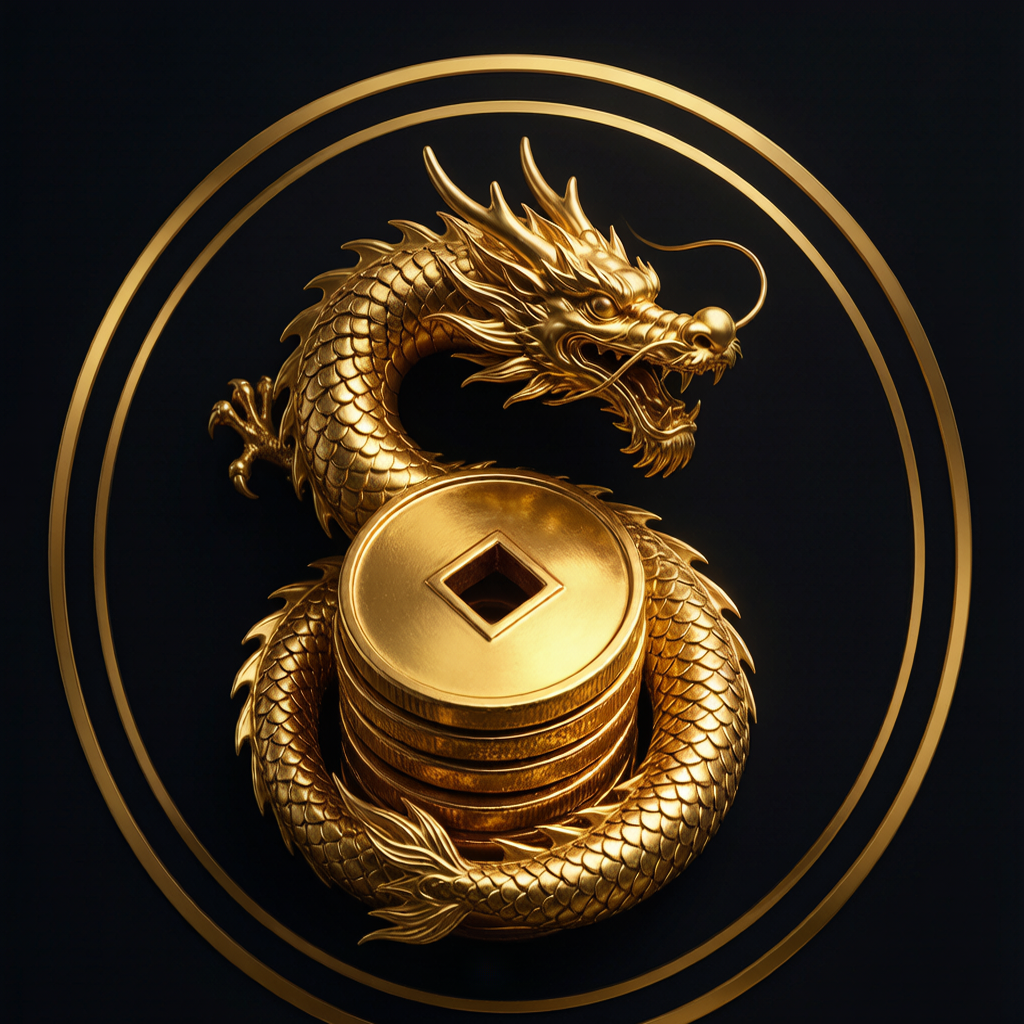
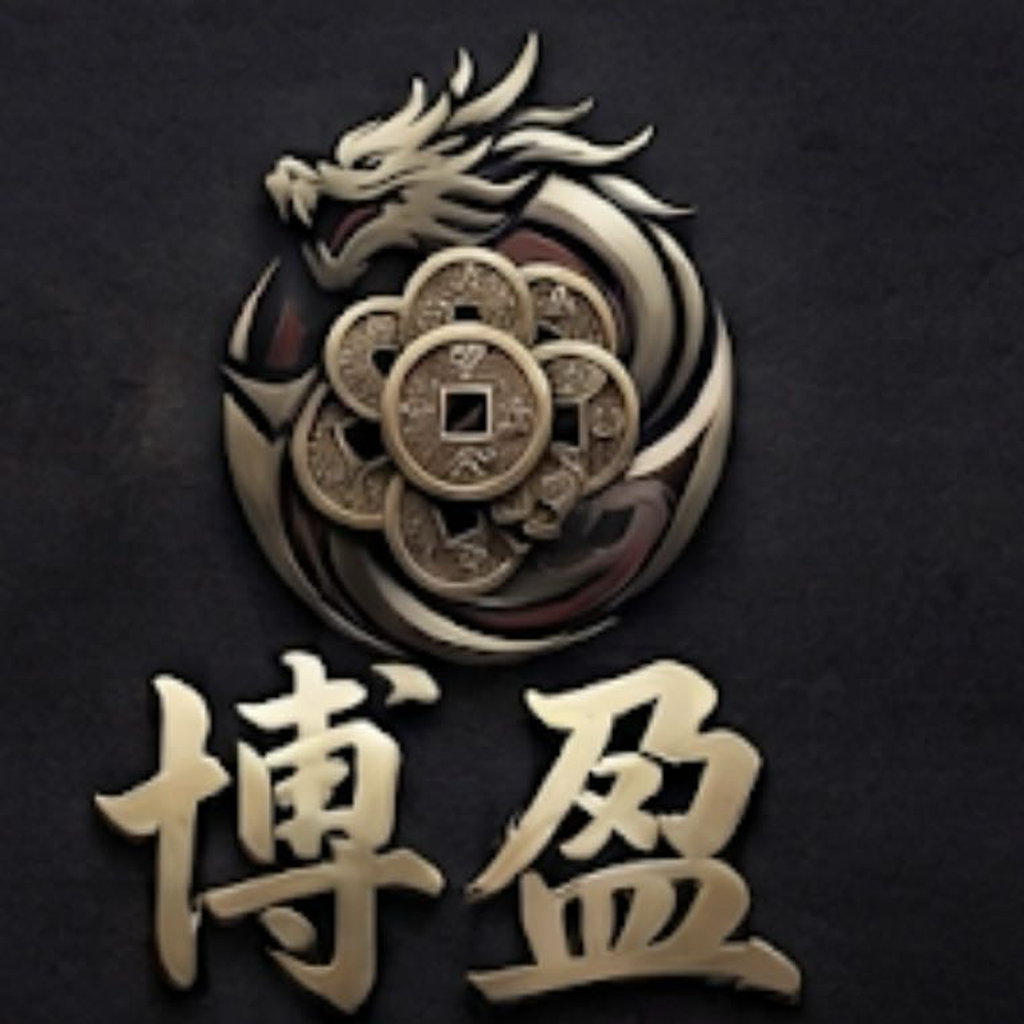
v1.3.0: 改用使用者提供的完整構圖（龍+金幣+紅綢帶+博盈金字）

diff --git a/index.html b/index.html
@@ -18,16 +18,15 @@
 <link rel="apple-touch-startup-image" href="icons/splash-828x1792.png" media="(device-width: 414px) and (device-height: 896px) and (-webkit-device-pixel-ratio: 2)">
 <link rel="apple-touch-startup-image" href="icons/splash-750x1334.png" media="(device-width: 375px) and (device-height: 667px) and (-webkit-device-pixel-ratio: 2)">
 <title>台灣版整合系統</title>
-<link rel="stylesheet" href="app.css?v=1787287830822">
+<link rel="stylesheet" href="app.css?v=1787288276488">
 </head>
 <body>
 
 <!-- 登入畫面（Phase 1A 個別帳號） -->
 <div id="login-overlay">
   <div class="login-box">
-    <div class="login-icon"><img class="brand-mark" src="icons/icon-192.png" width="96" height="96" alt="博盈APP" draggable="false" /></div>
-    <h1>授 權 驗 證</h1>
-    <div class="login-sub">博盈國際會 · 台灣版整合管理</div>
+    <img class="brand-full" src="icons/brand-360.png" alt="博盈" draggable="false" />
+    <div class="login-sub">台灣版整合管理 · 授權登入</div>
     <input type="email" id="login-email" placeholder="帳號（Email）" autocomplete="username">
     <input type="password" id="login-pwd" placeholder="密碼" autocomplete="current-password" onkeydown="if(event.key==='Enter')handleLogin()">
     <button id="login-btn" onclick="handleLogin()">進 入 系 統</button>
@@ -37,9 +36,8 @@
 <!-- 首次設定精靈（偵測 users 為空時顯示） -->
 <div id="setup-overlay" style="display:none;">
   <div class="login-box">
-    <div class="login-icon"><img class="brand-mark" src="icons/icon-192.png" width="96" height="96" alt="博盈APP" draggable="false" /></div>
-    <h1>首 次 設 定</h1>
-    <div class="login-sub">建立首位管理員帳號（需網路連線）</div>
+    <img class="brand-full" src="icons/brand-360.png" alt="博盈" draggable="false" />
+    <div class="login-sub">台灣版整合管理 · 首次建立管理員帳號</div>
     <input type="text" id="setup-name" placeholder="姓名（顯示名稱）">
     <input type="email" id="setup-email" placeholder="帳號（Email）" autocomplete="username">
     <input type="password" id="setup-pwd" placeholder="密碼（至少 6 位）" autocomplete="new-password">
@@ -52,9 +50,8 @@
 <div id="app" style="display:none;">
   <div class="sidebar">
     <div class="sidebar-brand">
-      <div class="brand-icon"><img class="brand-mark" src="icons/icon-192.png" width="96" height="96" alt="博盈APP" draggable="false" /></div>
-      <div class="brand-title">博盈國際會</div>
-      <div class="brand-sub">台灣版 v1.0</div>
+      <img class="brand-full" src="icons/brand-240.png" alt="博盈" draggable="false" />
+    </div>
     </div>
     <ul class="nav-list" id="nav-list"></ul>
   </div>
@@ -93,6 +90,6 @@
 <!-- Toast -->
 <div id="toast-container" class="toast-container"></div>
 
-<script src="app.js?v=1787287830822"></script>
+<script src="app.js?v=1787288276488"></script>
 </body>
 </html>

diff --git a/app.css b/app.css
@@ -183,9 +183,7 @@ a { color: var(--accent); text-decoration: none; }
   padding: var(--spacing-md); flex-shrink: 0; position: sticky; top: 0; height: 100vh; overflow-y: auto;
 }
 .sidebar-brand { padding: var(--spacing-md) 0; text-align: center; border-bottom: 1px solid var(--border); margin-bottom: var(--spacing-md); }
-.sidebar-brand .brand-icon { font-size: var(--font-size-3xl); color: var(--gold); }
-.sidebar-brand .brand-icon svg { width: 32px; height: 32px; display: block; margin: 0 auto; }
-.sidebar-brand .brand-icon img.brand-mark { width: 36px; height: 36px; display: block; margin: 0 auto; }
+.sidebar-brand .brand-full { width: 140px; height: auto; display: block; margin: 0 auto; }
 .sidebar-brand .brand-title { font-size: var(--font-size-lg); font-weight: 700; margin-top: var(--spacing-xs); }
 .sidebar-brand .brand-sub { font-size: var(--font-size-sm); color: var(--text-secondary); }
 .nav-list { list-style: none; }
@@ -386,8 +384,7 @@ a { color: var(--accent); text-decoration: none; }
   border-radius: var(--radius-lg); padding: var(--spacing-xl); width: 360px; text-align: center;
 }
 .login-box .login-icon { font-size: var(--font-size-4xl); color: var(--gold); margin-bottom: var(--spacing-md); }
-.login-box .login-icon img.brand-mark { width: 96px; height: 96px; display: inline-block; }
-.login-box h1 { color: var(--login-text); font-size: var(--font-size-xl); margin-bottom: var(--spacing-xs); }
+.login-box .brand-full { width: 240px; height: auto; display: block; margin: 0 auto var(--spacing-sm); }
 .login-box .login-sub { color: var(--login-text-muted); font-size: var(--font-size-sm); margin-bottom: var(--spacing-lg); }
 .login-box input {
   width: 100%; padding: 12px 16px; background: var(--login-input-bg); border: 1px solid var(--login-input-border);

diff --git a/service-worker.js b/service-worker.js
@@ -6,7 +6,7 @@
  *   - 其他 → stale-while-revalidate
  */
 
-var CACHE_VERSION = 'tw-app-v1.2.0';  // 2026-08-21 修正 brand 圖示（簡化 SVG → 真實 3D PNG），bump 快取版強制重抓
+var CACHE_VERSION = 'tw-app-v1.3.0';  // 2026-08-21 改用使用者提供的完整構圖（龍+金幣+紅綢帶+博盈 3D 金字），移除 CSS 寫的標題文字
 var STATIC_CACHE = CACHE_VERSION + '-static';
 var RUNTIME_CACHE = CACHE_VERSION + '-runtime';
 

diff --git a/app.js b/app.js
@@ -1,5 +1,5 @@
-// [BUILD] v1.0.0_dev_1787287830822
-window.TW_BUILD_VERSION = "v1.0.0_dev_1787287830822";
+// [BUILD] v1.0.0_dev_1787288276488
+window.TW_BUILD_VERSION = "v1.0.0_dev_1787288276488";
 
 // [DEV BUILD] 測試環境 — 資料導向 taiwan_data_dev/，不污染正式資料
 window.TW_DEV_MODE = true;
